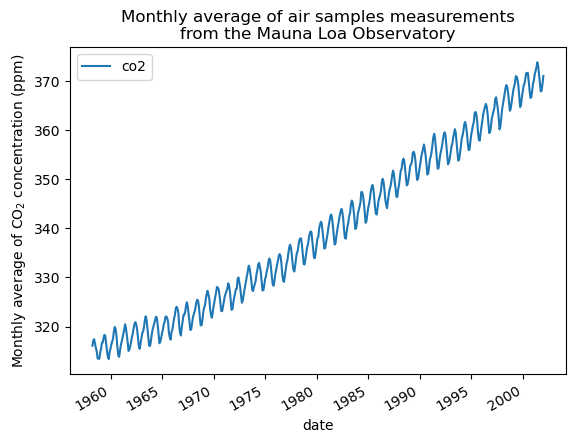
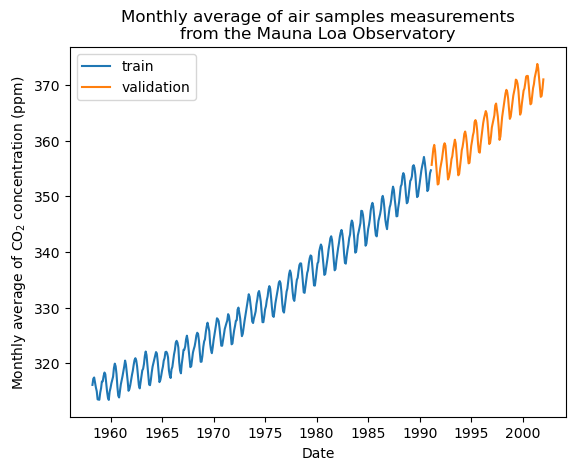
Add cross validation step and update raw data visualization figures

Changed region(s): [[0.0, 0.0293, 0.9757, 0.851], [0.1183, 0.8804, 0.9461, 0.9977]]

diff --git a/morea/machine-learning/experience-ml-sklearn.md b/morea/machine-learning/experience-ml-sklearn.md
@@ -27,7 +27,7 @@ morea_enable_toc: true
 
 # Decision Trees on Mauna Loa CO2 data
 
-This example uses data that consists of the monthly average atmospheric CO$_2$ concentrations (in parts per million by volume (ppm)) collected at the Mauna Loa Observatory in Hawaii, between 1958 and 2001. The objective is to model the CO2 concentration as a function of the time *t*.
+This example uses data that consists of the monthly average atmospheric CO2 concentrations (in parts per million by volume (ppm)) collected at the Mauna Loa Observatory in Hawaii, between 1958 and 2001. The objective is to model the CO2 concentration as a function of the time *t*.
 
 
 ### Build the dataset
@@ -76,7 +76,21 @@ _ = plt.title("Raw air samples measurements from the Mauna Loa Observatory")
 </div>
 {% include figure.html url="" max-width="60%" file="morea/machine-learning/fig/co2_data.png" alt="Basic Binder Webpage" caption="" %}
 
-We will preprocess the dataset by taking a monthly average and drop month for which no measurements were collected. Such a processing will have an smoothing effect on the data.
+**Cross validation** is an important step in machine learning. In cross validation, the machine learning model is trained and evaluated on different subsets of input data. This step is crucial for clean evaluation, increased generalizability, and minimize underfitting & overfitting.
+
+<div class="alert alert-secondary" role="alert" markdown="1">
+
+~~~python
+from sklearn.model_selection import train_test_split
+
+RANDOM_SEED = 42  # Ensures reproducibility of split
+co2_train, co2_validation = train_test_split(
+    co2_data, test_size=0.25, shuffle=False, random_state=RANDOM_SEED
+)
+~~~
+</div>
+
+Also, we will preprocess the dataset by taking a monthly average and drop month for which no measurements were collected. Such a processing will have an smoothing effect on the data.
 <div class="alert alert-secondary" role="alert" markdown="1">
 
 ~~~python
